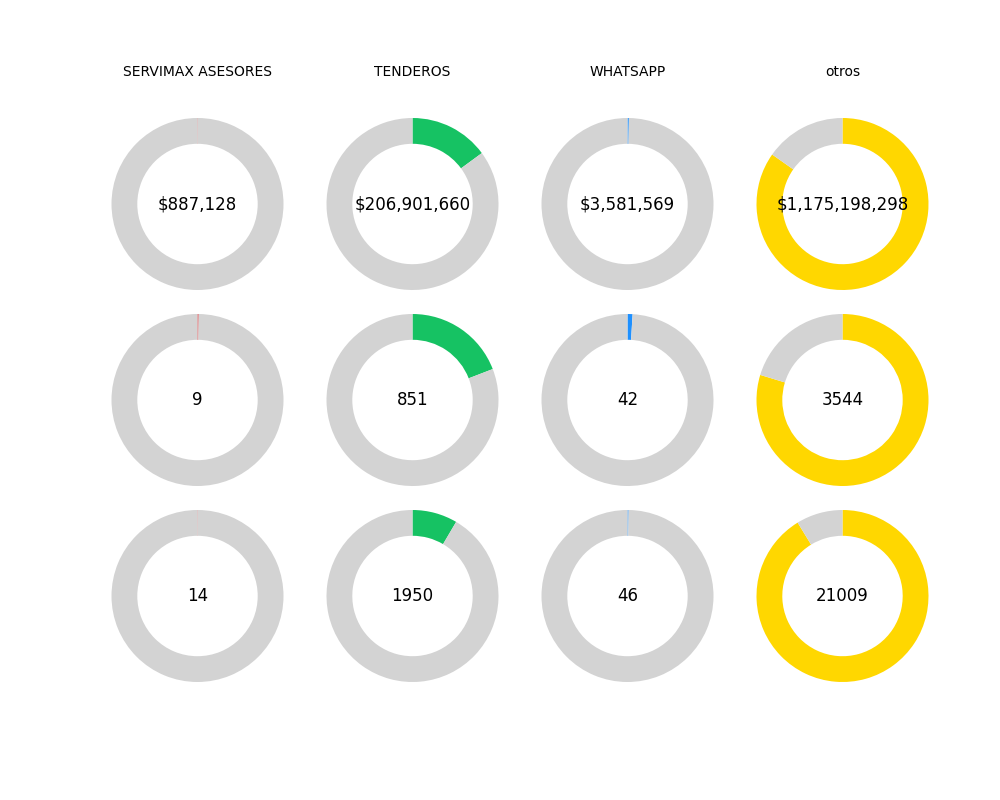
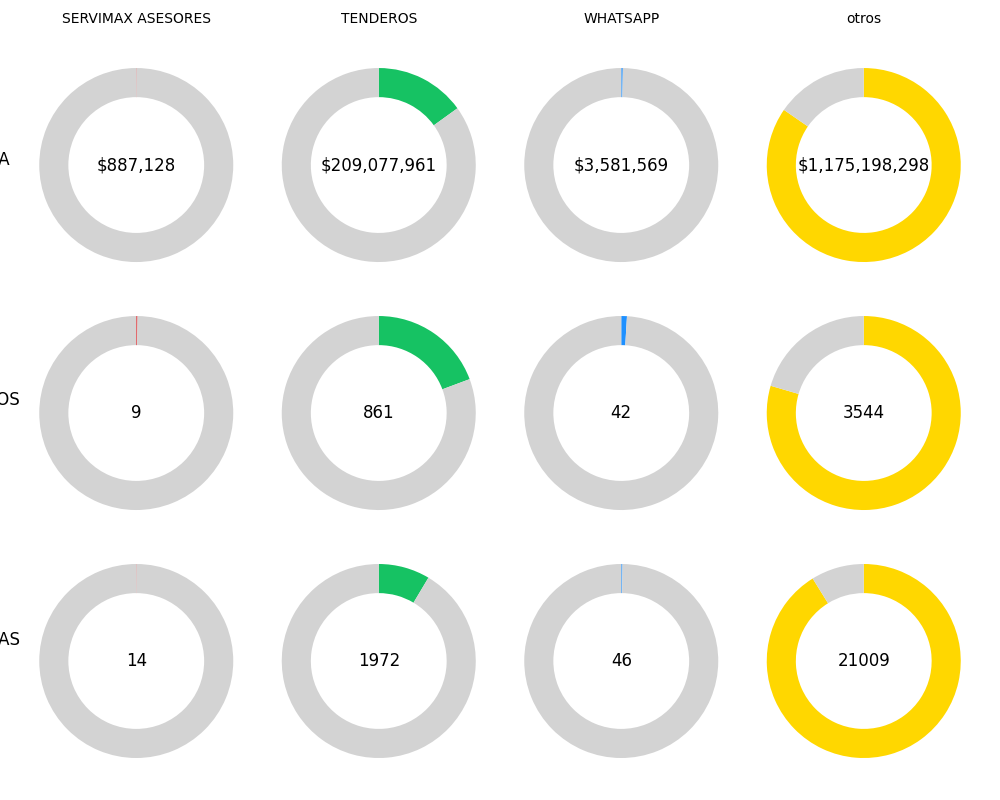
nada-casi-ad

diff --git a/resource/html/hoja_2.html b/resource/html/hoja_2.html
@@ -111,7 +111,8 @@
     .img_estandar{
         object-fit: contain;
         width: 100%;
-        height: 100%"
+        height: 100%;
+        display: block;
     }
   </style>
   <body>
@@ -138,18 +139,20 @@
         </div>
       </div>
 
-      <div class="row-1" style="padding:2px;">
+      <div class="row-1">
           <div class="chart-head" style="border: solid red; width: 650px; height: 430px; overflow: hidden;display:inline-block">
                 <img src="/resource/img/Temporal/tabal_caliente.png" alt="" 
               style="object-fit: fill; width: 100%; height: 100%"/>
           </div>
-          <div class="" style="border:solid blue;height: 430px; width: 632px;overflow: hidden; display:inline-block;">
+          <div style="border:solid blue;height: 430px; width:650px;overflow: hidden; display:inline-block;">
             <img src="/resource/img/Temporal/charpie_fuente.png" alt=""  class="img_estandar"/> 
           </div>
       </div>
       <div class="row-2">
-        <div class="chart-r2" style="" ></div>
-        <div class="chart-r2"></div>
+        <div class="chart-r3"></div>
+        <div class="chart-r1" style="border: solid purple; width: 730px; height:350px;overflow: hidden; display: inline-block;" >
+            <img src="/resource/img/Temporal/tableGrupo_fuente.png" alt="" class="img_estandar" >
+        </div>
       </div>
     </div>
   </body>

diff --git a/create_chart/chart_generator.py b/create_chart/chart_generator.py
@@ -286,13 +286,13 @@ class chart_generate:
         total_impactos = totales_por_categoria["impactos"].sum()
         total_facturas = totales_por_categoria["facturas"].sum()
 
-        fig, axes = plt.subplots(3, 4, figsize=(10, 8), gridspec_kw={'wspace': 0.0, 'hspace': -0.3})
-        fig.subplots_adjust(left=0.95, right=0.95,  bottom=10, hspace=0.1)
+        fig, axes = plt.subplots(3, 4, figsize=(10, 8), gridspec_kw={'wspace': 0.0, 'hspace':0.0})
+        # plt.subplots_adjust(left=0.94, right=0.95, bottom=0.1, top=0.9, hspace=0.4, wspace=0.3)
         metricas = ["venta", "impactos", "facturas"]
         totales_globales = [total_ventas, total_impactos, total_facturas]
-        titulos_metricas = ["VENTA", "IMPACTOS", "FACTURAS"]
+        titulos_metricas = ["VENTA  ", "IMPACTOS", "FACTURAS"]
         for i, metrica in enumerate(metricas):
-            fig.text(0.5, 0.5 - i * 0.31, titulos_metricas[i], va='center', ha='center', fontsize=42, rotation=90)
+            fig.text(0.02, 0.80 - i * 0.3, titulos_metricas[i], va='center', ha='right', fontsize=12)
             total_global = totales_globales[i]
             vnt = True if i == 0 else False
             for j, categoria in enumerate(categorias):

diff --git a/main.py b/main.py
@@ -67,13 +67,13 @@ dash.add_diapositiva(cover)
 # with open('resource/img/Temporal/tabal_caliente.png', "wb") as f:
 #     f.write(buf.getvalue())
     
-# chart_fuente,buf = chart.create_chartpie(fuente)
-# with open('resource/img/Temporal/charpie_fuente.png', "wb") as f:
-#     f.write(buf.getvalue())   
+chart_fuente,buf = chart.create_chartpie(fuente)
+with open('resource/img/Temporal/charpie_fuente.png', "wb") as f:
+    f.write(buf.getvalue())   
     
-grupo_tabla,buf= chart.create_table_group(group)
-with open('resource/img/Temporal/tableGrupo_fuente.png', "wb") as f:
-    f.write(buf.getvalue())  
+# grupo_tabla,buf= chart.create_table_group(group)
+# with open('resource/img/Temporal/tableGrupo_fuente.png', "wb") as f:
+#     f.write(buf.getvalue())
     
 
 # sheet.pagina_2(headmap,chart_fuente)

diff --git a/img_to_html.py b/img_to_html.py
@@ -5,14 +5,14 @@ import time
 hti = Html2Image(output_path='resource/img/matplob')
 time.sleep(2)
 
-html_file = "resource/html/hoja_2.html"
+html_file = "resource/html/hoja_1.html"
 time.sleep(2)
 
 # Generar imagen desde HTML
 hti.screenshot(
     html_file=html_file,
     save_as="dashboard_image.png",
-    size=(1300, 950) 
+    size=(1300, 930) 
 )
 
 print("Imagen generada correctamente.")
